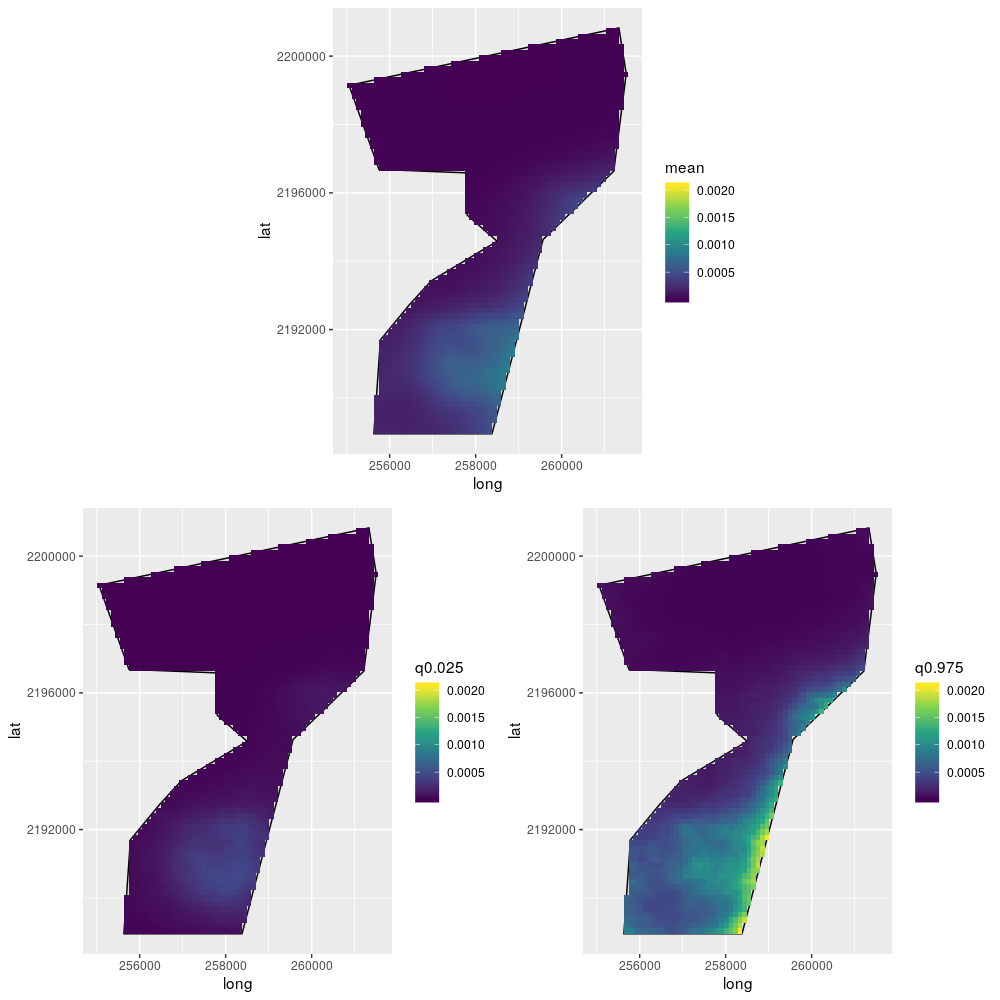
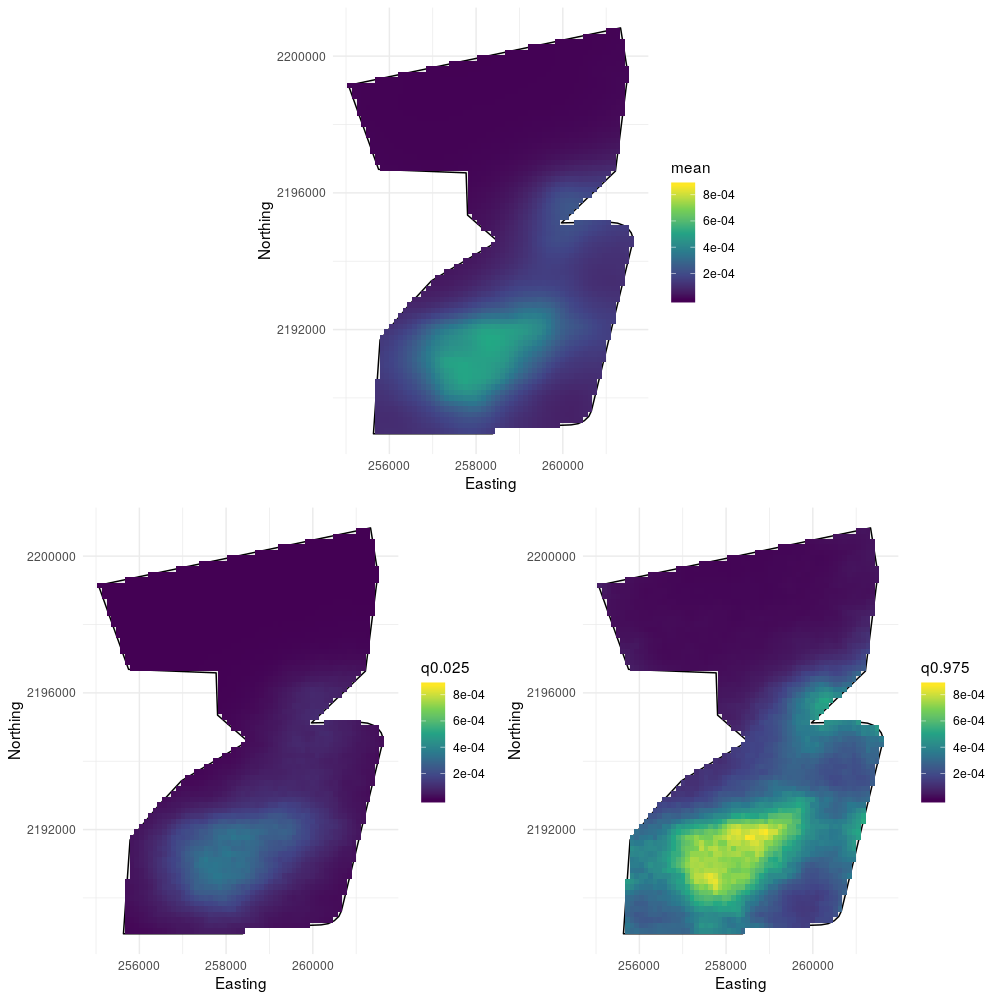
update figures for extended data

diff --git a/paper.tex b/paper.tex
@@ -128,7 +128,7 @@ Here we present a similar approach to \citet{yuan_point_2017} but instead focus 
 
 To demonstrate the benefits of this one-stage approach we highlight potential issues regarding model evaluation and communication of results that are common in many formulations of species distribution modelling.  We discuss potentially misleading summary maps of the posterior intensity process and propose an alternative based on excursion sets \citep{bolin_excursion_2015, bolin_calculating_2018}.  A key theme in our case-study is to highlight the importance of considering \textit{realizations} of random quantities rather than rely too much as summaries such as expectations and quantiles.  The one-stage approach is invaluable since model summaries are based on monte-carlo sampling from the joint posterior of all model parameters.  Since the spatial process and observation process are estimated jointly this means figures and summaries produced naturally average over the estimated uncertainty in the observation processes.  This is an advantage over the two-stage approach even if uncertainty has been effectively propagated in some way.  
 
-The article proceeds as follows.  First we present the perspective of point transect distance sampling as a thinned poisson process, describing in detail how this can be formulated as a latent Gaussian model with a latent GMRF random effect.  We also show how the point process viewpoint can still be used in the case of incomplete location information where only the distance from the observer is recorded, not the exact location of the animal.  Secondly we describe how to specify the joint model using an iterative approach to fitting models with components that are non-linear in their parameters.  Thirdly, we introduce our case-study using a point transect distance sampling survey of the Hawaiian \akepa{} and show how the above methods can be specified and fit using the software package \texttt{inlabru} \citep{bachl_inlabru_2019}, an extension of the \texttt{R-INLA} package. We focus our model evaluation on the effective understanding and communication of uncertainty in the posterior intensity and abundance estimates, which are typically of greatest interest to stakeholders.
+The article proceeds as follows.  First we present the perspective of point transect distance sampling as a thinned poisson process, describing in detail how this can be formulated as a latent Gaussian model with a latent GMRF random effect.  We also show how the point process viewpoint can still be used in the case of incomplete location information where only the distance from the observer is recorded, not the exact location of the animal.  Secondly we describe how to specify the joint model using an iterative approach to fitting models with components that are non-linear in their parameters.  Thirdly, we introduce our case-study using a point transect distance sampling survey of the Hawaiian \akepa{}, an endangered bird of the honeycreeper tribe.  We show how the above methods can be specified and fit using the software package \texttt{inlabru} \citep{bachl_inlabru_2019}, an extension of the \texttt{R-INLA} package. We focus our model evaluation on the effective understanding and communication of uncertainty in the posterior intensity and abundance estimates, which are typically of greatest interest to stakeholders.
 
 
 \section*{Distance Sampling as a Thinned Point Process}
@@ -170,14 +170,14 @@ $\alpha = (\tilde{\alpha}^\intercal, 0_{n \times 1}^\intercal)^\intercal$ and co
 \pi(\bm{Y}) \approx \prod_{i=1}^{KM + n} \eta_i^{y_i}\exp(-\alpha_i\eta_i)
 \end{equation}
 
-This is similar to a Poisson likelihood with an offset term equal to $\log\alpha$.
+This is similar to a Poisson likelihood with an offset term equal to $\log\alpha$ and can be specified using the Poisson likelihood implementation available in \texttt{R-INLA}.
 
 
 \section*{Intensities for incomplete data}
 
-In the above we assume the data are complete records of animal location.  However, in many distance sampling surveys the exact location of the animal is not recorded - instead only the location of the observer and the distance to the observer are recorded.  Data of this type can be analysed within a point process framework by deriving the appropriate intensity function for the incomplete data.
+In the above we assume the data are complete records of animal location.  However, in many distance sampling surveys only the location of the observer and the distance to the observer are recorded.  Data of this type can be analysed within a point process framework by deriving the appropriate intensity function for the incomplete data.
 
-Using the polar coordinates notation given above, for true animal location $s_k(r, \theta) \in \Omega_k$, we consider the case where we observe $r$ but not $\theta$.  It follows that the intensity for points at a distance $r$ observed within sampling unit $\Omega_k$ is
+Using the polar coordinates notation given above, for true animal location $s_k(r, \theta) \in \Omega_k$ we consider the case where we observe $r$ but not $\theta$.  It follows that the intensity for points at a distance $r$ observed within sampling unit $\Omega_k$ is
 \begin{align}
 \tl_k(r) &= \oint\displaylimits_{c_k(r)} \lambda(s)g_k(s)\mathrm{d}s \nonumber \\
 &= 2\pi\lambda(s_k)rg_k(r)
@@ -196,23 +196,19 @@ where $\beta_0$ is an intercept parameter, the $z_v(s)$ are spatially indexed co
 \begin{equation}
 C(s_1,s_2) = \frac{2^{1-\nu}}{4\pi\kappa^2\tau^2\Gamma(\nu)}(\kappa \|s_1-s_2\|)^{\nu}K_\nu(\kappa \|s_1-s_2\|)
 \end{equation}
-where \(\nu, \kappa, \tau\) are parameters and \(K_{\nu}\) is the modified Bessel function of the second kind.  All three parameters are not simultaneously identifiable and it is conventional to assume a value for $\nu$ which controls the mean-square differentiability of the process.  We set $\nu = 1$ which is the most common default value in the approximation approach outlined below.  [[Would like to justify $\nu = 1$ somehow]]
+where \(\nu, \kappa, \tau\) are parameters and \(K_{\nu}\) is the modified Bessel function of the second kind.  All three parameters are not simultaneously identifiable \citep{zhang_inconsistent_2004} and it is conventional to assume a value for $\nu$ which controls the mean-square differentiability of the process.  We set $\nu = 1$ which is the most default value in \texttt{R-INLA}. [[Would like to justify $\nu = 1$ somehow?]]
 
-We use a Gaussian Markov random field approximation of $\xi(s)$ following the approach of [[Lindgren 2011]] based on specifying $\xi(s)$ via a stochastic partial differential equation.  Given a finite element mesh on the spatial domain with $L$ nodes and associated piece-wise linear basis functions $\phi_1, \ldots, \phi_L$ we represent $\xi$ as $\xi(s) = \sum_l \xi_l \phi_l(s)$.  The parameters $\xi_1, \ldots, \xi_L$ follow a multivariate normal distribution with sparse precision matrix $\bm{Q}_{\xi} = \frac{1}{\tau^2}\left(\kappa^4\bm{C} + 2\kappa^2\bm{G_1} + \bm{G_2}\right)$ where $\bm{C}$, $\bm{G_1}$, $\bm{G_2}$ are all sparse matrices the elements of which are defined via an approximate solution to a stochastic partial differential equation. The precision parameter $\tau$ controls the marginal variance of the field and $\kappa$ is an inverse range parameter that controls the rate of decay of the covariance as distance between locations increases.  Further details of this Gaussian Markov random field approximation are given in the supplementary materials.
+We use a Gaussian Markov random field approximation of $\xi(s)$ following the approach of \cite{lindgren_explicit_2011} based on specifying $\xi(s)$ via a stochastic partial differential equation.  Given a finite element mesh on the spatial domain with $L$ nodes and associated piece-wise linear basis functions $\phi_1, \ldots, \phi_L$ we represent $\xi$ as $\xi(s) = \sum_l \xi_l \phi_l(s)$.  The parameters $\xi_1, \ldots, \xi_L$ are a Gaussian Markov random field with sparse prior precision matrix $\bm{Q}_{\xi} = \frac{1}{\tau^2}\left(\kappa^4\bm{C} + 2\kappa^2\bm{G_1} + \bm{G_2}\right)$ where $\bm{C}$, $\bm{G_1}$, $\bm{G_2}$ are all sparse matrices the elements of which are defined via an approximate solution to a stochastic partial differential equation. The precision parameter $\tau$ controls the marginal variance of the field and $\kappa$ is an inverse range parameter that controls the rate of decay of the covariance as distance between locations increases.  Further details of this Gaussian Markov random field approximation are given in the supplementary materials.
 
 \section*{Thinned Intensities}
 
-The above specifies a model for all animal locations in the area of interest.  The log-intensity for observed points is $\log\tl(s) = \log\lambda(s) + \log g(s)$.  This presents a problem since $\log g(s)$ is not typically linear in its parameters. However, for any single set of parameter values, $g(s)$ is essentially an offset term.  That is, if we specify $g(s)$ as known then we can proceed with inference within a standard additive linear predictor framework.
-
-TO DO:
+The above specifies a model for all animal locations in the area of interest.  The log-intensity for observed points is $\log\tl(s) = \log\lambda(s) + \log g(s)$.  This presents a problem since $\log g(s)$ is not typically linear in its parameters. However, for any single set of parameter values $g(s)$ can be viewed as acting like an offset. If we could specify $g(s)$ as known then we can proceed with an inference approach that applies to additive linear predictors.
 
 \begin{itemize}
  \item Description of iterated INLA here
 \end{itemize}
 
 \section*{Case-Study:  Hawaiian Akepa Survey}
-
-TODO HERE:  Add code snippets of how to specify the model in inlabru, brief discussion of PC priors and how they were chosen here
 
 % RJC 09/08/2019 Added text describing the akepa data, survey method, key questions and what we care about from ecology/conservation point of view. This text provides a background on Hawaiian forest birds, why it is important to monitor their populations and the need for unbiased and precise estimates. I am wondering if we need to strengthen the 'key questions' text.
 
@@ -252,7 +248,13 @@ For purposes of our analysis, we selected a single survey from the \akepa{} time
 
 % addtextend
 
-The predicted mean of the posterior intensity is shown in \autoref{fig:intensity-mean-cv} along with a map of the coefficient of variation (CV) of the posterior intensity field on a regular prediction grid with cell area of approximately 1.7 hectares.  This shows a region of high intensity in the south and much lower intensity in the north.  The CV plot shows clearly that there is less variation in the posterior intensity field in areas with greater sampling effort.  In general the south, with greater density of sampled locations, has a lower CV than the north, where sampling units are more spread out.  The areas of highest CV are those regions furthest away from any sampled location, reflecting the intuitive fact that we are least certain in areas where we did not look.
+\subsection*{Model specification}
+
+TODO HERE:  Add code snippets of how to specify the model in inlabru, brief discussion of PC priors and how they were chosen here
+
+\subsection*{Results}
+
+The predicted mean of the posterior intensity is shown in \autoref{fig:intensity-mean-cv} along with a map of the coefficient of variation (CV) of the posterior intensity field on a regular prediction grid with cell area of approximately 1.7 hectares.  This shows a region of high intensity in the south and much lower intensity in the north.  The CV plot shows clearly that there is less variation in the posterior intensity field in areas with greater sampling effort.  In general the south, with greater density of sampled locations, has a lower CV than the north, where sampling units are more spread out.  The areas of highest CV are those regions furthest away from any sampled location, reflecting the intuitive fact that we are least certain in areas further away from the sampled locations.  
 
 \begin{figure}
 	\includegraphics[scale=0.5]{figures/intensity_mean_cv.png}
@@ -260,7 +262,7 @@ The predicted mean of the posterior intensity is shown in \autoref{fig:intensity
 	\label{fig:intensity-mean-cv}
 \end{figure}
 
-The CV plot shows a measure of uncertainty relative to the mean intensity in each prediction grid cell.  However, often we are interested in the uncertainty around the mean intensity on the scale of the intensity function itself - perhaps seeking to identify areas where we can confidently predict particularly high or low intensities.  To attempt to communicate this uncertainty around the mean it is common [[references?]] to present the lower and upper quantiles corresponding to a 95\% credible interval for each prediction cell (\autoref{fig:intensity-quantiles}). [RJC - I don't think a reference is needed to substantiate presenting credible intervals or computing them using quantiles, particularly in a stats journal.]
+The CV plot shows a measure of uncertainty relative to the mean intensity in each prediction grid cell.  However, often we are interested in the uncertainty around the mean intensity on the scale of the intensity function itself - perhaps seeking to identify areas where we can confidently predict particularly high or low intensities.  To attempt to communicate this uncertainty around the mean it is common [[references?]] to present the lower and upper quantiles corresponding to a 95\% credible interval for each prediction cell (\autoref{fig:intensity-quantiles}). [RJC - I don't think a reference is needed to substantiate presenting credible intervals or computing them using quantiles, particularly in a stats journal. AES - I was trying to find an example of someone presenting maps like these in a paper, yet to find one.  If you know of any please let me know!]
 
 \begin{figure}
 	\includegraphics[scale=0.5]{figures/intensity_quantiles.png}
@@ -280,38 +282,32 @@ This difference becomes clear if one generates realizations of the posterior int
 
 The quantile plots are more concerning.  As mentioned above, the temptation is to interpret these as possible intensities that produced our observed data.  However, they in fact show the quantiles of the \textit{marginal} probability density for each prediction location.  This essentially treats each prediction cell as independent of the others. Whilst any one prediction location may be well described by such quantiles, to present them side by side in one image obscures the fact that the probability that all (or some subset of) the prediction cells would \textit{simultaneously} achieve that value will be in fact much lower than the quantile value and in many cases would be essentially zero.  [RJC - I stumbled over this sentence several times and I think it needs to be rewritten.]  To demonstrate this we treated the lower and upper quantile plots as though they were intensities and integrated them to obtain an expected abundance estimate of approximately 2500 for the 0.025 quantile and 12,300 for the 0.975.  A naive (and tempting) interpretation of these numbers is as upper and lower limits of the 95\% credible interval for abundance. However, these abundance estimates are essentially impossible according to the estimated posterior for abundance (see \autoref{fig:realized-abundance-posterior}).  This emphasises that the temptation to treat these maps as showing possible intensity surfaces leads to outcomes (and possible management decisions) that are inconsistent with the very model that generated the maps.
 
-As an alternative, we suggest using excursion sets and excursion functions.  This is a recently developed approach to representing uncertainty in stochastic processes that specifically considers joint probability of events across multiple locations.  The positive excursion set with level $u$ for a function $f(s)$ with domain $\Omega$ is $A_u^{+}(f) = \{ s \in \Omega ; f(s) < u \}$.  For a stochastic process $\lambda(s)$ the positive excursion set with level $u$ and probability $1 - \alpha$ is
+As an alternative, we suggest using excursion sets and excursion functions \citep{bolin_excursion_2015}.  This is a recently developed approach to representing uncertainty in stochastic processes that specifically considers joint probability of events across multiple locations.  The positive excursion set with level $u$ for a function $f(s)$ with domain $\Omega$ is $A_u^{+}(f) = \{ s \in \Omega ; f(s) > u \}$ i.e. the set of all locations in $\Omega$ where $f$ exceeds the a threshold value $u$. For a stochastic process $\lambda(s)$ the positive excursion set with level $u$ and probability $1 - \alpha$ is
 
 \begin{equation*}
 E_{u,\alpha}^{+}(\lambda) = \argmax_{D}\{\lvert D \rvert : \mathbb{P}\left[D \subset A_u^{+}(\lambda)\right] \geq 1 - \alpha \}
 \end{equation*}
 It is important to note that $A_u^{+}(f)$ specifies a set for which a function $f(s)$ exceeds a threshold value $u$ for \textit{every location} in the set.  This means that when considering random quantities such as $\lambda(s)$ the definition of the positive excursion set $E_{u,\alpha}^{+}(\lambda)$ is the largest such set for which a threshold is exceeded simultaneously for all locations in the set.  Because $\lambda(s)$ is stochastic we can only ever say this is true with some probability and use something akin to a confidence level by specifying $\alpha$.
 
-Excursion sets can be estimated by considering increasing candidate sets $D$ and a sequential integration scheme to estimate probabilities.  An implementation is available in the \texttt{excursions} package \citep{bolin_calculating_2018} available through the Comprehensive R Archive Network \citep{r_2017}.
+Excursion sets can be estimated by considering candidate sets for $D$ of increasing size and a sequential integration scheme to estimate probabilities.  An implementation is available in the \texttt{excursions} package \citep{bolin_calculating_2018} available through the Comprehensive R Archive Network \citep{r_2017}.
 
-\autoref{fig:excursion-set} shows the positive excursion set with a level corresponding to 1 bird per hectare with probability 0.95.  This figure can be interpreted in a natural way.  It is the largest possible region for which the intensity is greater than 1 bird per hectare for every location within the region, with probability 0.95.
-
-\begin{figure}
-	\includegraphics[scale=0.5]{figures/excursion_set.png}
-	\caption{The positive excursion set with a level corresponding to 1 bird per hectare and probability 0.95}
-	\label{fig:excursion-set}
-\end{figure}
-
-To visualise multiple such maps we can use the excursion function $F_u^{+}(s) = \sup \{1 - \alpha ; s \in E_{u,\alpha}^+ \}$, which defines for each location something similar to a p-value.  For each $s$ it is the largest possible probability $1 -\alpha$ for which that location would be in the excursion set defined using probability $1 - \alpha$.  The excursion function with a level corresponding to 1 bird per hectare is shown in \autoref{fig:excursion-function}.
+\autoref{fig:excursions} (left panel) shows the positive excursion set with a level corresponding to 1 bird per hectare with probability 0.95.  This figure can be interpreted in a natural way.  It is the largest possible region for which the intensity is greater than 1 bird per hectare for every location within the region, with probability 0.95.
 
 \begin{figure}
-	\includegraphics[scale=0.5]{figures/excursion_function.png}
-	\caption{The positive excursion function with a level corresponding to 1 bird per hectare}
-	\label{fig:excursion-function}
+	\includegraphics[scale=0.5]{figures/excursions.png}
+	\caption{Left:  The positive excursion set with a level corresponding to 1 bird per hectare and probability 0.95.  Right: The positive excursion function with a level corresponding to 1 bird per hectare}
+	\label{fig:excursions}
 \end{figure}
 
-This figure can also be interpreted naturally.  It shows the largest possible probability for each location to be a member of a set for in which the intensity exceeds a threshold simultaneously across all locations in the set.  It can be viewed intuitively as a kind of fuzzier version of \autoref{fig:excursion-set}.  Regions on the edge of the excursion set would be included if the $\alpha$ value were allowed to increase slightly.  However, for regions in the north there is essentially no probability level for which those locations would be included in $A_u^{+}(\lambda)$.
+To visualise multiple such maps we can use the excursion function $F_u^{+}(s) = \sup \{1 - \alpha ; s \in E_{u,\alpha}^+ \}$, which defines for each location something similar to a p-value.  For each $s$ it is the largest possible probability $1 -\alpha$ for which that location would be in the excursion set defined using probability $1 - \alpha$.  The excursion function with a level corresponding to 1 bird per hectare is shown in \autoref{fig:excursions} (right panel).
+
+This figure can also be interpreted naturally.  It shows the largest possible probability for each location to be a member of a set for in which the intensity exceeds a threshold simultaneously across all locations in the set. Regions on the edge of the excursion set would be included if the $\alpha$ value were allowed to increase slightly.  However, for regions in the north there is essentially no probability level for which those locations would be included in $A_u^{+}(\lambda)$.
 
 A key feature of these plots is that they display either discrete sub-regions of the area of interest (for excursion sets) or the probability of membership of such discrete sub-regions (for excursion functions).  We believe the risk of interpreting these maps as intensities is much lower than for the quantile plots.  The fact that it is possible to estimate discrete regions may also be useful to communicate results to conservation practitioners, land and resource managers and policy decision-makers.  We anticipate the excursion function will be most useful in communicating to audiences with statistical training. [RJC - I think statistically savvy audiences will readily grasp the excursion functions. Do you mean "without" statistical training?]
 
-Another key aim of performing distance sampling surveys is to estimate the abundance of the population of interest.  By specifying our spatial model as a log-Gaussian Cox process, the intensity is a random field rather than a fixed function of space. Let $n$ denote the abundance of the population within the region of interest and $N$ its corresponding random variable within our Bayesian framework.  Integrating the mean of the random field provides a point estimate for the abundance, which we term the expected abundance.  Here we demonstrate the importance of considering the full posterior for $N$ which we call the \textit{realized} abundance.
+Another key aim of performing distance sampling surveys is to estimate the abundance of the population of interest.  By specifying our spatial model as a log-Gaussian Cox process, the posterior intensity is a random field rather than a deterministic function. Let $n$ denote the abundance of the population within the region of interest and $N$ its corresponding random variable within our Bayesian framework.  Integrating the mean of the random field provides a point estimate for the abundance, which we term the expected abundance.  Here we demonstrate the importance of considering the full posterior for $N$ which we call the \textit{realized} abundance.
 
-Let $N = \int_{\Omega}\lambda(s)\mathrm{d}s$. Note that $N$ is a random variable and the integral of $\mathbb{E}[\lambda(s)]$ is equivalent to $\mathbb{E}(N)$ by Fubini's theorem, hence the term expected abundance.  As we mentioned above, this is the most sensible point estimate for the abundance.  We estimate the posterior $\pi(N | \lambda)$ by a monte-carlo method.  Taking $m$ monte-carlo samples of the posterior intensity field $\lambda_1, \ldots, \lambda_m$ we estimate the posterior for the abundance as $\pi(N | \lambda) \approx 1 / m \sum_{i=1}^m \pi (N | \lambda = \lambda_i)$. This is well defined since $\pi(N | \lambda = \lambda_i)$ is a Poisson probability mass function with rate parameter $\int_{\Omega}\lambda_i(s)\mathrm{d}s$. \autoref{fig:realized-abundance-posterior} shows the approximate posterior for $N$ with $m = 20,000$.  This allows us to estimate the probability for any specific value of \textit{realized} abundance $n$ by calculating $\pi(N = n | \lambda)$.  For reference, \autoref{fig:realized-abundance-comparison} shows a single Poisson PMF with rate parameter equal to the expected abundance.
+Let $N = \int_{\Omega}\lambda(s)\mathrm{d}s$. Note that $N$ is a random variable and the integral of $\mathbb{E}[\lambda(s)]$ is equivalent to $\mathbb{E}(N)$ by Fubini's theorem, hence the term expected abundance.  As we mentioned above, this is the most sensible point estimate for the abundance.  We estimate the posterior $\pi(N | \lambda)$ by a monte-carlo method.  Taking $m$ monte-carlo samples  $\lambda_1, \ldots, \lambda_m$ of the posterior intensity field we estimate the posterior for the abundance as $\pi(N | \lambda) \approx 1 / m \sum_{i=1}^m \pi (N | \lambda = \lambda_i)$. This is well-defined since $\pi(N | \lambda = \lambda_i)$ is a Poisson probability mass function with rate parameter $\int_{\Omega}\lambda_i(s)\mathrm{d}s$. \autoref{fig:realized-abundance-posterior} shows the approximate posterior for $N$ with $m = 20,000$.  This allows us to estimate the probability for any specific value of \textit{realized} abundance $n$ by calculating $\pi(N = n | \lambda)$.  For reference, \autoref{fig:realized-abundance-comparison} shows a single Poisson PMF with rate parameter equal to the expected abundance.
 
 \begin{figure}
 	\includegraphics[scale=0.6]{figures/realized_abundance_posterior.png}
@@ -340,10 +336,13 @@ TODO HERE:  Something about how this is all a one-stage model and all these plot
 
 \begin{enumerate}
 	\item Note the model-based Bayesian hierarchical approach provides a framework for working with distance sampling data.  This allows simultaneous estimation of parameters associated with the detection process and the spatial distribution.  It is in principle extendible... somehow...
+
 	\item Note that Bayesian distance sampling [RJC - References for this include Oedekoven et al (2014, JABES 19:219-239) and Buckland et al. (2015). We could also include Buckland et al. (2016, JABES 21:58-75) but it deals more with model-based design distance sampling than Bayesian approaches specifically. The more recent papers that reference Cornelia's paper are applied. It is also worth looking at Yuan's paper on point process models of blue whales.] has been done before but that the INLA approach avoids data augmentation and MCMC.
 	\item Iterated INLA is a powerful and flexible way to include non-linear components to a predictor and has applications beyond this application to distance sampling
 	\item More to do in future to test how many parameters can be included in the non-linear component and what types of non-linear components are feasible
-
+	\item Note similarities and differences with two-stage GAM approach
+	\item Note that presenting uncertainty in maps is difficult and excursion sets are a promising contribution relevant to many areas of spatial statistics.
+	\item Links to species "range" estimates - excursions possibly useful here.
 \end{enumerate}
 
 \bibliographystyle{chicago}
